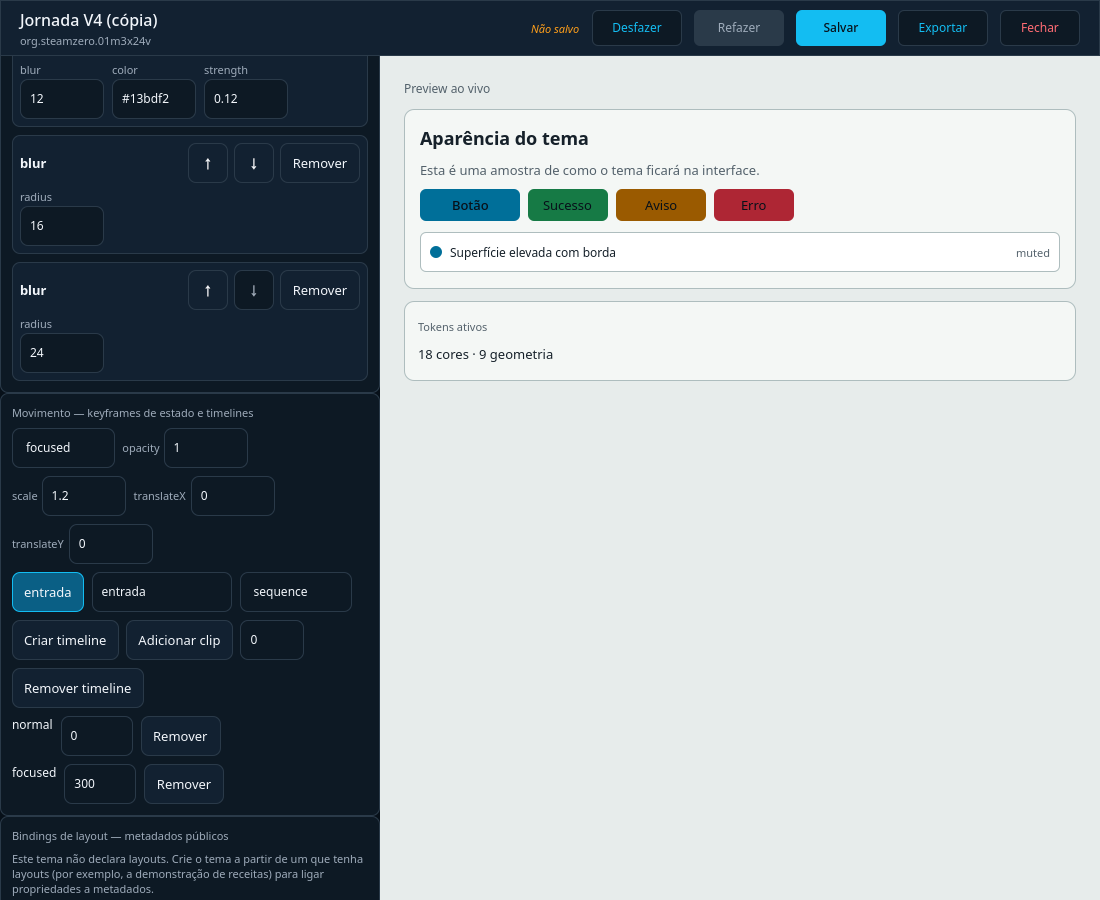
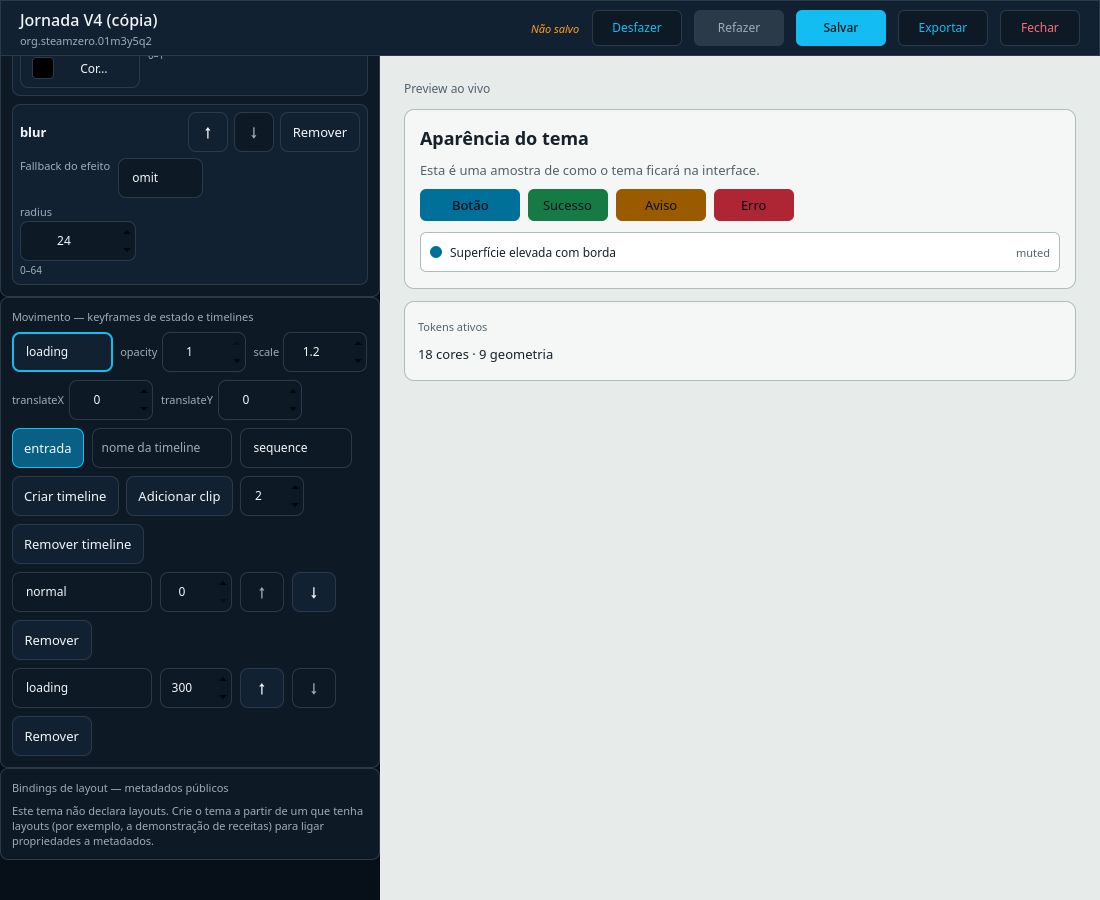
docs(theme): record editor runtime evidence and final gates

diff --git a/docs/09-operations/evidence/2026-10-01-v4-authoring-ui/README.md b/docs/09-operations/evidence/2026-10-01-v4-authoring-ui/README.md
@@ -1,70 +1,126 @@
-# V4 — autoria pela UI: capturas e roteiro para B_VISUAL
+# Edição e execução de tema: prova local e roteiro B_VISUAL
 
-**Nível de prova:** teste QML automatizado com **eventos Qt (mouseClick/keyClick)** sobre os controles reais do
-`ThemeEditorPanel` contra o `DesktopControlServer` real (dashboard real, dados em diretório temporário), em
-plataforma `offscreen`/renderer software. **Não** é prova física: sem input real de teclado/gamepad/portal,
-sem release instalada, sem AT-SPI.
+## O que esta rodada prova
 
-Branch `codex/v1-v3-theme-journey-2026-10-01`; teste: `tests/integration/test_theme_authoring_e2e.py`
-(harness `tests/qml/check_theme_authoring_e2e.qml`). Capturas geradas com `SZ_CAPTURE_DIR=<dir>`.
+O teste `tests/integration/test_theme_authoring_e2e.py` abre o `ThemeEditorPanel`
+real em um harness QML e envia `mouseClick`/`keyClick` aos controles visíveis. A
+ponte usa um `DesktopControlServer`, `DesktopDashboard`, `ThemeEditorManager` e
+`ThemeBridge` reais; os dados e a configuração ficam em `XDG_DATA_HOME` e
+`XDG_CONFIG_HOME` temporários. O renderer testado é o caminho da **AURA UI**:
+`EditorialLibrary` → `MediaEffectLayer`, alimentado pelo `/status` publicado
+depois da aplicação explícita do tema.
 
-## Capturas (dados sintéticos)
-| Arquivo | O que mostra |
+A biblioteca contém somente um registro sintético e a imagem PNG CC0 de
+`tests/fixtures/themes/esde-mini/fundo.png`. Nenhuma biblioteca ou preferência
+pessoal é lida pelo teste. A execução usa Qt 6.11.2, plataforma `offscreen` e
+renderer software. É uma prova de UI QML e pixels no checkout, não de input
+físico, release instalada, sessão gráfica real ou AT-SPI.
+
+O ciclo exercitado pela UI é:
+
+1. Duplicar o tema padrão e editar a pilha de mídia: adicionar blur e vinheta,
+   mudar `radius=24` e `strength=0.9`, reordenar, escolher o fallback `minimal`;
+   abrir o seletor AURA existente, aplicar `#336699` a uma sombra temporária,
+   rejeitar `#zz0000` sem alterar documento/histórico e remover essa sombra.
+2. Editar movimento: criar o estado nativo `loading` com `scale=1.2`; criar e
+   remover uma timeline de rascunho; criar `entrada` como `parallel`, mudar para
+   `sequence`, configurar duas repetições, editar estado/duração dos clips,
+   movê-los para cima/baixo, rejeitar duração `9999` e remover um clip.
+3. Conferir `dirty`, desfazer/refazer, salvar, fechar e reabrir; a declaração
+   semântica reaberta deve ser igual à salva.
+4. Aplicar o tema explicitamente à central e confirmar pelo `/status` que a
+   bridge publicou o ID escolhido. O `MediaEffectLayer` recebe a vinheta salva;
+   a imagem aplicada escurece a borda. O teste compara a soma das médias RGB:
+   a borda precisa cair mais de 15 pontos e o controle central pode variar menos
+   de 12.
+
+Os valores numéricos e as escolhas fechadas vêm de schemas gerados pelas mesmas
+regras de domínio que validam efeitos e movimento. Entradas fora de faixa
+mostram os limites e voltam ao valor aceito sem criar histórico; uma cor inválida
+é recusada pelo domínio e também preserva documento, histórico e seleção.
+
+## Capturas
+
+Todas são capturas do harness QML/software, não fotografias da sessão instalada.
+Os arquivos e hashes estão em `SHA256SUMS`.
+
+| Arquivo | Conteúdo |
 |---|---|
-| `01-studio-efeitos-movimento.png` | Inspetores de efeitos (cartões com parâmetros) e de movimento; 1100x900 |
-| `02-studio-compacto.png` | Viewport 640x560 (layout compacto): inspetores seguem alcançáveis por rolagem |
-| `03-studio-binding.png` | Binding `text ← item.genre` ligado e listado; timeline/clips acima |
-| `04-studio-compact-movimento.png` | Viewport 640x560 após rolar até o inspetor de movimento; `Adicionar clip` cabe inteiro no viewport |
-Hashes: `SHA256SUMS`.
+| `01-studio-efeitos-movimento.png` | Inspetores de efeito e timeline, estado `loading` selecionado e `scale=1.2`; painel 1100×900. |
+| `02-studio-compacto.png` | Controles de efeito acessados com a janela 640×560 e coluna rolável. |
+| `03-studio-binding.png` | Binding `text ← item.genre` ligado pela UI e exibido no inspetor. |
+| `04-studio-compact-movimento.png` | Timeline e clips no viewport 640×560, incluindo seleção de estado e duração. |
+| `05-theme-runtime-baseline.png` | Fixture desenhada pelo `MediaEffectLayer` antes de aplicar a vinheta. |
+| `06-theme-runtime-aplicado.png` | Mesma mídia depois da aplicação da declaração salva. |
+| `07-aura-library-theme-applied.png` | Superfície completa `EditorialLibrary` com fixture sintética e tema ativo. |
+| `08-studio-seletor-cor.png` | Diálogo AURA de seleção de cor, aberto pelo controle de sombra. |
+| `09-studio-vinheta-editada.png` | Receita final de vinheta visível no inspetor: fallback `minimal`, cor e força `0.9`. |
 
-## Correção verificada em 2026-10-02
+## Comandos e resultados focados
 
-O gate visual do CI no run `36952440268` encontrou controles do inspetor fora do
-viewport horizontal no Qt 6.11.2: em 1100x900 `keyframe_scale` começava em x=394
-num `Flickable` de 380 px; em 640x560 o centro de `motionClipAdd` ficava além do
-limite de 280 px. Os `Flow` internos herdavam a largura implícita dos filhos.
-Agora o cartão limita a largura ao `ScrollView.availableWidth`, e os `Flow`
-quebram na largura do inspetor. O harness também verifica que o alvo inteiro está
-na viewport antes de enviar mouse/teclado.
+```bash
+rtk .venv/bin/python tools/run_tests_isolated.py tests/unit/test_theme_effect_authoring.py -q
+rtk env SZ_CAPTURE_DIR="<diretório-de-evidências>" .venv/bin/python tools/run_tests_isolated.py tests/integration/test_theme_authoring_e2e.py -q
+```
 
-Reprodução e correção foram executadas no container pinado pelo CI
-(`ghcr.io/misael-art/steamzero-qml-visual@sha256:8b832ec124ae72aa59a4de3b5c00ccf3f03b41a7e688f45c10daf767290041cd`,
-Qt 6.11.2, Python 3.14.6, software/offscreen): antes, `1 failed`; depois, o teste
-de autoria passou (`1 passed`). No host BigLinux, a mesma jornada passou e gerou
-as capturas 01–04. O guard de estado do runner registrou igualdade antes/depois.
-Isso prova eventos Qt no harness QML e persistência no diretório temporário, não
-input físico nem execução pela release instalada.
+Na última execução focada, passaram: 10 testes de autoria de efeitos/movimento
+(1,20 s), mais 68 testes de `theme_editor`, `scene_motion` e `theme_effects`
+(1,54 s), a jornada QML (14,08 s) e os 2 testes separados de cena importada
+(2,20 s). O guard observou o estado real idêntico antes/depois
+(`files=12818`, `directories=2068`, `bytes=1372818509`). Essa validação pertence
+à árvore de trabalho atual.
 
-Limite de captura: o container visual reproduz a geometria, mas a imagem dele
-mostra glifos ausentes (quadrados) no stack de fontes disponível. Por isso a
-captura 04 é do renderer software local do host, legível e ligada ao mesmo teste;
-os screenshots do container não são usados como aprovação visual.
+No checkpoint integral da árvore congelada desta entrega, `.venv/bin/python
+tools/run_tests_isolated.py tests -q` terminou com **6560 passed, 47 skipped em
+2302,24 s**. O guard do estado real permaneceu idêntico antes/depois
+(`files=12818`, `directories=2068`, `bytes=1372818509`, `max_mtime_ns=1790888510663329431`).
+Também passaram `ruff check src tools tests`, `ruff format --check src tools
+tests` (689 arquivos), `mypy src` (299 arquivos), `make independence
+boundaries`, `make status-check` e `git diff --check`. O checkpoint anterior de
+6557/47 continua como histórico, não como resultado desta árvore.
 
-## Gates locais do checkpoint
+`tests/integration/test_theme_scene_runtime_e2e.py` é uma prova separada:
+`SceneEsdeView` decodifica fixtures válidas/licenciadas ES-DE e RetroFE e verifica
+pixels. Ela não executa o tema criado nesta jornada. `SceneEsdeView`/Theme Engine,
+AURA Launcher e AURA Cinema não são promovidos por capturas da AURA UI.
 
-Na árvore congelada após a correção do viewport, correspondente ao commit
-funcional `57d18663f63f25fb655cce1b6dee40e56b592dc4`, os gates locais terminaram
-em:
+## Roteiro B_VISUAL para a release autorizada
 
-- `.venv/bin/python tools/run_tests_isolated.py tests -q`: **6557 passed, 47 skipped** em 2599,72 s; o guard registrou o mesmo estado real antes/depois (`files=12818`, `directories=2068`, `bytes=1372818509`). Os skips são contratos condicionados a Flatpak/core e fixtures `reference/` não versionadas.
-- `.venv/bin/ruff check src tools tests`: aprovado.
-- `.venv/bin/ruff format --check src tools tests`: 689 arquivos formatados.
-- `.venv/bin/mypy src`: sem erros, 299 arquivos.
-- `make independence boundaries`: independência e fronteiras aprovadas.
-- `make status-check`: aprovado depois de renovar os digests dos itens que incluem a superfície QML compartilhada.
-- `git diff --check`: aprovado.
+**Pré-condições:** usar a release construída do SHA completo que será informado
+após os gates e o CI; verificar que o manifesto do pacote aponta para o mesmo
+`sourceCommit`; registrar release, digest, sessão, resolução e escala. A prova
+requer instalação governada autorizada pelo operador. Não instalar nem publicar
+esta branch por este roteiro. A release observada antes deste lote era
+`2.0.0rc1-5715d7962691`; o rollback preservado era
+`2.0.0rc1-e2af2562ebba`. Nenhuma delas contém as mudanças atuais.
 
-O run remoto `36952440268` pertence ao SHA anterior `ee72df66` e falhou no gate
-visual QML por geometria fora do viewport. A correção local passou no container
-visual pinado; o CI do novo SHA só será criado depois do push. Nenhum pacote foi
-instalado: a release ativa continua `2.0.0rc1-5715d7962691`.
+Use um perfil de teste isolado e uma mídia sintética licenciada na sessão gráfica
+real. Não aponte o teste para a biblioteca Steam pessoal nem ative ações de jogo.
+Se a release não oferecer um modo isolado para essa mídia, registre a etapa de
+runtime como pendente em vez de alterar a biblioteca pessoal.
 
-## Roteiro curto (release candidata, quando existir)
-1. **Sucesso.** Temas → duplicar `org.steamzero.asset-recipes-demo` → no Studio: adicionar efeito `shadow` na pilha `focusedCover`, mudar `blur` para 20, mover para cima; keyframe `focused` `scale=1.2`; criar timeline `entrada` + clip; ligar `previewTitles.text` ao metadado `genre`. Desfazer/Refazer devem seguir cada passo; "Não salvo" acompanha o histórico.
-2. **Salvar/reabrir.** Salvar, Fechar, reabrir o tema na lista: os valores permanecem (inclusive o binding).
-3. **Exportar/importar.** Exportar o `.zip`; importar de novo exige "como cópia" (id novo, "(cópia)"); o original fica intacto.
-4. **Erro e recuperação.** Digitar `9999` em `blur radius`: aparece mensagem acionável, o campo volta ao valor declarado e o histórico não ganha passo. Num tema sem layouts o inspetor de bindings explica como obter um tema com layouts.
-5. **Viewport compacto** (janela estreita): os três inspetores continuam alcançáveis rolando a coluna esquerda.
-6. **Teclado/gamepad/seletor nativo:** não exercitados por este pacote; registrar como "assistido" se o AT-SPI não responder (limitação do instrumento, não do produto).
-Consumidor: tema da central (ThemeBridge) para tokens; cena da Engine (`SceneEsdeView`) para ES-DE/RetroFE. Launcher/AURA Cinema **não** consomem cenas importadas neste pacote.
-Versão: preencher com a release instalada (`2.0.0rc1-5715d7962691` NÃO contém estas mudanças). Rollback preservado: `2.0.0rc1-e2af2562ebba`.
+1. **Sucesso:** abrir a central instalada; duplicar o tema padrão; no Studio,
+   adicionar blur e vinheta, ajustar `24`/`0.9`, escolher `minimal`, abrir o
+   seletor AURA, alterar a cor de uma sombra e removê-la. Criar o estado
+   `loading`, configurar `scale=1.2`, criar `entrada`, editar tipo/repetição e
+   pelo menos dois clips. Navegar pelos controles com mouse e teclado; repetir
+   com gamepad quando o foco estiver disponível.
+2. **Persistência:** conferir `Não salvo`, desfazer/refazer, salvar, fechar,
+   reabrir e comparar os valores. Capturar Studio, seletor de cor, catálogo e
+   versão da release.
+3. **Execução central:** aplicar explicitamente a cópia à central; observar a
+   mídia sintética na `EditorialLibrary` e registrar se a vinheta altera a borda
+   da imagem. Restaurar a preferência anterior ou encerrar o perfil temporário.
+4. **Erro e recuperação:** inserir um valor numérico acima do limite; confirmar
+   mensagem com faixa, valor anterior, seleção e histórico preservados. Digitar
+   hexadecimal inválido; confirmar mensagem do domínio e restauração do campo.
+   Corrigir, salvar/reabrir e capturar o erro e a recuperação.
+5. Registrar input físico e foco. O seletor desta tela é o diálogo AURA existente;
+   não declarar um portal nativo testado. Se AT-SPI falhar, registrar a limitação
+   do instrumento, sem classificar o produto como reprovado por isso.
+
+**Consumidor desta entrega:** AURA UI central (`EditorialLibrary` /
+`MediaEffectLayer`). **Consumidor Engine separado:** `SceneEsdeView`; a ligação
+entre um pacote editado e uma cena importada ainda exige uma fatia própria.
+Launcher/AURA Cinema não consomem cenas importadas neste recorte. O host atual
+permanece na release anterior até existir autorização e instalação governada.

diff --git a/docs/STATUS.md b/docs/STATUS.md
@@ -85,7 +85,7 @@ Esta e a visao atual do projeto. A fonte de verdade sao os arquivos em `docs/sta
 | SZ-PS3-OFFICIAL-FIRMWARE-DOWNLOAD | Download assistido do firmware oficial do PS3 | implemented | complete | feature-branch | unit | unknown | not-packaged | Publicar a branch, instalar uma release governada e executar a prova física do assistente com download oficial, erro controlado, cancelamento/rollback e lançamento posterior do RPCS3. |
 | SZ-RESOURCE-QML-PROBE | Atribuição de recursos e probe QML confiável | verified-dev | complete | integrated | dev | degraded | installed | HARD-EXTERNAL-SUBITEM: repetir a medição em runner/sessão com permissão procfs suficiente e capturar probe QML real com return code zero; não atribuir o agregado atual nem executar mutações administrativas. |
 | SZ-RETROACHIEVEMENTS | RetroAchievements e modo offline | planned | planned | isolated | none | unknown | not-packaged | Implementar adapter RetroAchievements apenas apos hardening de keyring e outbox, respeitando achievement-event-v1. |
-| SZ-ROADMAP-CONTINUATION | Roadmap de continuidade após auditoria integral | verified-dev | complete | feature-branch | dev | ready | not-packaged | Gates integrais locais aprovados no checkpoint do PR #249. Separar commits funcional/documental, fazer push autorizado e atualizar o PR; depois consultar CI no SHA final. Permanecem B_VISUAL, prova na release, Launcher/Cinema e autoria de assetRecipes/tier/resolução. |
+| SZ-ROADMAP-CONTINUATION | Roadmap de continuidade após auditoria integral | verified-dev | complete | feature-branch | dev | ready | not-packaged | Separar commits funcionais/documentais, fazer push autorizado da branch existente e atualizar o PR #249; consultar CI no SHA final. Permanecem B_VISUAL em sessão/release autorizada, cena editada consumida pela Engine, autoria assetRecipes/tier/resolução e consumidores Launcher/Cinema. |
 | SZ-SHARPEMU-COMPONENT-SMOKE-CONTRACT | Contrato de verificação do componente SharpEmu | implemented | complete | feature-branch | unit | ready | not-packaged | Executar gates, publicar a correção e reaplicar o componente SharpEmu na release governada; depois validar o dump PS5 e capturar a evidência física. |
 | SZ-SYSTEM-DIAGNOSTICS-GUIDANCE | Diagnóstico do sistema orientado à recuperação | verified-dev | complete | integrated | dev | degraded | not-packaged | HARD-EXTERNAL-SUBITEM: repetir a jornada na release instalada com um estado de atenção e confirmar foco/ação pelo operador; não executar recovery no host sem autorização. |
 | SZ-TEST-STATE-ISOLATION | Isolamento de estado e diretório temporário da suíte | verified-dev | complete | integrated | dev | ready | not-packaged | Manter o runner canônico em todos os entrypoints e não limpar o state home histórico sem autorização do operador. |
@@ -94,7 +94,7 @@ Esta e a visao atual do projeto. A fonte de verdade sao os arquivos em `docs/sta
 | SZ-THEME-IMPORT-ESDE-LAYOUT | Temas ES-DE: compilacao de layout, aquisicao e instalacao transacional | verified-hw | partial | integrated | hw | degraded | not-packaged | Preparar ES-DE real e repetir inspect→apply→activate→render→rollback: instalação de tema ainda não altera a aparência da central, activated=false é deliberado e quatro temas importados no host são inválidos por falta de compatibility. Cobertura de compilação não é renderização promovida. |
 | SZ-THEME-IMPORT-RETROFE | Importação segura de cenas RetroFE | verified-hw | complete | integrated | hw | ready | installed | Manter a entrada RetroFE instalada e documentar explicitamente que inspeção/importação não promove ativação automática da cena. |
 | SZ-THEME-IMPORT-SURFACE | Importação de temas acessível pela área Temas | partial | partial | feature-branch | unit | degraded | not-packaged | Validar na release 2.0.0rc1-504d10b14485 com fontes ES-DE e pacote SteamZero reais; manter ausência explícita enquanto ES-DE/SRM não estiverem instalados e RetroFE não tiver pacote lançável. |
-| SZ-THEME-STUDIO | Theme Studio — autoria visual de temas | verified-hw | partial | integrated | hw | degraded | installed | Concluir os gates locais e publicar o checkpoint do PR #249. Depois, executar B_VISUAL na release candidata com teclado/gamepad/portal e observar o tema editado no consumidor Engine. Theme Studio segue parcial: edição de assetRecipes no documento, perfis por tier/resolução, Launcher/Cinema e medição na release permanecem pendentes. |
+| SZ-THEME-STUDIO | Theme Studio — autoria visual de temas | verified-hw | partial | integrated | hw | degraded | installed | Gates locais integrais aprovados nesta árvore. Separar commits funcionais e documental, fazer push autorizado do PR #249 e consultar CI no SHA final. Em release governada autorizada, B_VISUAL valida input físico. Permanecem edição assetRecipes, tiers/resolução, round-trip do tema editado na cena Engine, Launcher/Cinema e medição na release. |
 | SZ-UI-DESKTOP-AUDIT | UI Desktop — auditoria visual e jornadas P0/P1 | verified-dev | partial | integrated | dev | degraded | not-packaged | Executar a validacao fisica do conjunto integrado (release candidata 7808374257db) com autorizacao especifica de instalacao; ate la os eixos implementacao/verificacao/operacao/distribuicao continuam os mesmos. F-1 (memoryGb), cinco superficies rolaveis e o seletor nativo seguem abertos. |
 | SZ-UI-PACKAGED-ICONS | Ícones oficiais empacotados de emuladores, serviços e plataformas | partial | partial | integrated | unit | unknown | packaged | Capturar evidencia visual dos icones no Launcher instalado. Sem essa captura, a troca esta provada como empacotamento e gate visual, nao como aparencia na tela instalada. |
 | SZ-V2-HARMONIZED-FUNCTIONAL-RELEASE | Release funcional 2.0 harmonizada | partial | partial | feature-branch | none | unknown | not-packaged | Não promover esta frente por agregação histórica. Usar a ordem vigente: G48 Launcher real, G49 first-run, G50 PCSX2 portal; depois G51 ROM lifecycle, G52 mídia, G53 Theme Studio e G54 ES-DE/RetroFE. A matriz de fade, gameplay, retorno de foco, multi-disc, PS4/PS5 e desempenho só fecha após esses gates. |

diff --git a/docs/ACTIVE-WORK.md b/docs/ACTIVE-WORK.md
@@ -12,4 +12,4 @@ Somente workstreams `active` aparecem aqui. O coordenador deve criar ou atualiza
 | WS-2026-09-HIGH-END-RUNTIME-READINESS | SZ-EMULATION-HIGH-END-RUNTIME-READINESS | `codex/emulation-system-validation-2026-09-19` | `50b3f503e840b227ae900dc32a1a6eae4746ad0f` | codex-emulation-system-validation | docs/status/items/high-end-runtime-readiness-2026-09-20.json<br>docs/status/workstreams/high-end-runtime-readiness-2026-09-20.json<br>docs/09-operations/evidence/2026-09-20-high-end-runtime-readiness<br>src/steamzero/adapters/console_runtime_readiness.py<br>tests/unit/test_console_runtime_readiness.py | Executar gates focados e integrais; registrar o handoff do contrato M3U X68000 e manter PS4/PS5/Xbox prontos para a próxima prova física autorizada. |
 | WS-2026-09-LIBRARY-GOVERNED-MANAGEMENT | SZ-LIBRARY-CANONICAL | `codex/library-host-release-caf9d922-2026-09-22` | `621a3389db32` | codex-continuation | src/steamzero/domain/library_management.py<br>src/steamzero/adapters/emulation.py<br>src/steamzero/adapters/discovery/vita_packaging.py<br>src/steamzero/ui/qml/Main.qml<br>src/steamzero/adapters/desktop_contracts.py<br>tests/unit/test_library_management.py<br>tests/unit/test_library_cache_directory_native.py<br>tests/unit/test_vita_packaging.py<br>tests/integration/test_qml_harness_regressions.py<br>tests/integration/test_qml_handheld_offscreen.py<br>tests/integration/test_qml_visual_capture.py<br>docs/status/items/library-canonical.json<br>docs/status/workstreams/library-governed-management-2026-09-22.json | G56 fechada no host (workspace Vita 6/6) e G57 implementada com preview de espaço comprovado na release governada; testar no host a recusa real por espaço insuficiente. Próximo P1 G58: relacionar derivados gerenciados aos jogos-base na Gestão de arquivos para todas as plataformas, com consentimento/quarentena/rollback e preservação das origens. G59: tornar scan um job assíncrono com progresso/cancelamento. Continuar certificação real de audit/rename/quarentena/rollback universal em cópias seguras; não declarar Vita3K launch sem runtime/adapter. RC-00 (2026-09-26): sobreposição de claim em Main.qml e desktop_contracts.py conciliada com evidência — o diff desses dois caminhos entre origin/main (3495c49d) e o tip cad58bb4 está vazio; os 2 commits pendentes (73919843, cad58bb4) não os tocam. O lote RC-01 da continuidade editará esses arquivos compartilhados em commit próprio e serial; conteúdo da frente permanece preservado na branch remota. |
 | WS-2026-09-MULTIDISC-MATERIALIZATION-INGESTION | SZ-MULTIDISC-MATERIALIZATION-INGESTION | `codex/emulation-system-validation-2026-09-19` | `f89206b4` | codex-emulation-system-validation | src/steamzero/adapters/multidisc_materializer.py<br>tests/unit/test_multidisc_materializer.py<br>docs/status/items/multidisc-materialization-ingestion-2026-09-20.json<br>docs/status/workstreams/multidisc-materialization-ingestion-2026-09-20.json<br>docs/09-operations/evidence/2026-09-20-multidisc-materialization-ingestion | Aguardar release governada para executar a prova física Amiga; manter RAR/7z sem backend em diagnóstico e X68000 sem contrato M3U. |
-| WS-2026-10-V1-V3-THEME-JOURNEY | SZ-ROADMAP-CONTINUATION | `codex/v1-v3-theme-journey-2026-10-01` | `b9d01b60` | codex-a-codigo | src/steamzero/ui/qml/ThemedDialog.qml<br>src/steamzero/ui/qml/CtaButton.qml<br>src/steamzero/ui/qml/mediaFit.js<br>src/steamzero/ui/qml/MediaEffectLayer.qml<br>src/steamzero/ui/qml/ThemeEditorPanel.qml<br>src/steamzero/domain/theme_editor.py<br>src/steamzero/domain/media_recipes.py<br>tests/integration/test_theme_authoring_e2e.py<br>tests/integration/test_theme_scene_runtime_e2e.py<br>tests/unit/test_theme_authoring_journey.py<br>tests/qml/check_theme_authoring_e2e.qml<br>tests/integration/test_media_fit_parity.py<br>docs/status/workstreams/v1-v3-theme-journey-2026-10-01.json<br>docs/status/items/theme-studio.json<br>docs/status/items/theme-engine.json<br>docs/09-operations/evidence/2026-10-01-v4-authoring-ui | Gates integrais locais aprovados: 6557 passed/47 skipped, ruff/format/mypy/independência/fronteiras/status-check verdes. Separar commits funcional e documental, fazer push autorizado e atualizar o PR #249; em seguida consultar CI do SHA final. Pendem B_VISUAL na release candidata, input físico, autoria assetRecipes/tier/resolução e consumidores Launcher/Cinema. |
+| WS-2026-10-V1-V3-THEME-JOURNEY | SZ-ROADMAP-CONTINUATION | `codex/v1-v3-theme-journey-2026-10-01` | `b9d01b60` | codex-a-codigo | src/steamzero/ui/qml/ThemedDialog.qml<br>src/steamzero/ui/qml/CtaButton.qml<br>src/steamzero/ui/qml/mediaFit.js<br>src/steamzero/ui/qml/MediaEffectLayer.qml<br>src/steamzero/ui/qml/ThemeEditorPanel.qml<br>src/steamzero/ui/qml/ColorPickerDialog.qml<br>src/steamzero/domain/theme_editor.py<br>src/steamzero/domain/scene_motion.py<br>src/steamzero/domain/theme_effects.py<br>src/steamzero/domain/media_recipes.py<br>tests/integration/test_theme_authoring_e2e.py<br>tests/integration/test_theme_scene_runtime_e2e.py<br>tests/unit/test_theme_authoring_journey.py<br>tests/unit/test_theme_effect_authoring.py<br>tests/qml/check_theme_authoring_e2e.qml<br>tests/integration/test_media_fit_parity.py<br>docs/status/workstreams/v1-v3-theme-journey-2026-10-01.json<br>docs/status/items/theme-studio.json<br>docs/status/items/theme-engine.json<br>docs/09-operations/evidence/2026-10-01-v4-authoring-ui | Suíte integral (6560 passed/47 skipped) e Ruff/format/mypy/independence/boundaries/status-check aprovados. Separar commits funcionais e documental, fazer push autorizado e atualizar o PR #249; depois consultar CI terminal no SHA final. B_VISUAL físico, edição assetRecipes/tier/resolução, cena editada na Engine e Launcher/Cinema permanecem pendentes. |

diff --git a/docs/WORKLOG.md b/docs/WORKLOG.md
@@ -14563,3 +14563,12 @@ Validação desta revisão: 13 testes de status aprovados em 5.13s, guard de est
 - Primeiro `make status-check` apontou seis digests obsoletos porque o QML compartilhado e a evidência nova pertencem a vários escopos. O delta ficou registrado nos itens Studio, Engine, importadores e UI audit; os digests/views foram renovados e o `make status-check` final retornou `STATUS-CHECK: OK`. A suíte não alterou o state home real.
 - PR #249 continua aberto. Push da branch existente autorizado nesta continuidade; este commit documental fecha o checkpoint e será enviado sem force-push. O CI do novo SHA só começa após o push. Nenhum merge, release, build de distribuição ou instalação foi executado. Ativo continua `2.0.0rc1-5715d7962691`, rollback `2.0.0rc1-e2af2562ebba`.
 - Pendências: B_VISUAL com teclado/gamepad/portal e consumidor Engine na release candidata; edição persistida de `assetRecipes` e configuração por tier/resolução; Launcher/AURA Cinema não consomem cenas importadas; medição de cena editada na release. O Studio, Engine e Launcher permanecem parciais e nenhum eixo foi promovido por este checkpoint.
+
+## 2026-10-02 — Tema editado executado na central; checkpoint final do PR #249
+
+- Branch `codex/v1-v3-theme-journey-2026-10-01`, continuada do SHA `909df05ab5ea52db19c65a3638e0d2e6f65627ff`. Commits funcionais: `b44fdfd` (schemas e controles tipados de efeitos/movimento, jornada QML) e `6ec114c` (alvo estável para localizar a mídia da EditorialLibrary no harness).
+- Pela UI QML com eventos Qt, a jornada cria/edita efeitos e movimento, reordena/remove efeitos e clips, rejeita valores inválidos sem alterar histórico/seleção, desfaz/refaz, salva, fecha/reabre e aplica explicitamente. O tema reaberto altera pixels em `EditorialLibrary` → `MediaEffectLayer` com fixture sintética isolada; Qt 6.11.2 offscreen/software. Não é sessão gráfica, input físico, Theme Engine/SceneEsdeView, Launcher, Cinema ou release instalada.
+- Focados: 10 testes de schemas/autoria, 68 do domínio relacionado, 1 jornada QML e 2 cenas ES-DE/RetroFE separadas. Integral congelada: `.venv/bin/python tools/run_tests_isolated.py tests -q` — **6560 passed, 47 skipped em 2302.24s**. Guard real idêntico antes/depois: `files=12818`, `directories=2068`, `bytes=1372818509`, `max_mtime_ns=1790888510663329431`. Ruff check, format (689 arquivos), mypy (299), independence, boundaries, status-check e diff-check aprovados.
+- Nove capturas e SHA-256 estão em `docs/09-operations/evidence/2026-10-01-v4-authoring-ui/`; roteiro B_VISUAL registra sucesso, erro/recuperação e a condição de pacote/release autorizada. Digests e views de status foram renovados; alterações compartilhadas de QML foram reconciliadas nos itens de importação, auditoria UI e firmware sem promover seus critérios.
+- Verificação somente leitura: `/opt/steamzero/current` aponta para `2.0.0rc1-5715d7962691`; `2.0.0rc1-e2af2562ebba` permanece no diretório de releases. A branch não foi instalada, empacotada nem integrada em `main`. PR #249 continua aberto; este registro é do fechamento local anterior ao push deste checkpoint, autorizado nesta conversa. Sem merge/release/instalação.
+- Ficam pendentes input físico e B_VISUAL na sessão/release autorizada; executar o tema editado pelo renderer Theme Engine/`SceneEsdeView`; autoria persistida de `assetRecipes` e perfis tier/resolução; consumidores de cenas no Launcher/Cinema; medição da cena editada na release. Studio, Engine e Launcher permanecem parciais.

diff --git a/docs/status/COVERAGE.md b/docs/status/COVERAGE.md
@@ -83,21 +83,21 @@ onde uma alegacao nao tem evidencia que a sustente.
 | SZ-PLATFORM-REQUIREMENT-SCOPE | 7 | 3 | 2 | unit |  |
 | SZ-PLATFORM-VITA-CATALOG | 5 | 8 | 5 | hw |  |
 | SZ-PROJECT-DESIGN-AUDIT | 12 | 25 | 6 | dev |  |
-| SZ-PS3-OFFICIAL-FIRMWARE-DOWNLOAD | 8 | 5 | 1 | unit |  |
+| SZ-PS3-OFFICIAL-FIRMWARE-DOWNLOAD | 8 | 6 | 1 | unit |  |
 | SZ-RESOURCE-QML-PROBE | 7 | 2 | 1 | dev |  |
 | SZ-RETROACHIEVEMENTS | 41 | 2 | 1 | none |  |
-| SZ-ROADMAP-CONTINUATION | 19 | 9 | 3 | dev |  |
+| SZ-ROADMAP-CONTINUATION | 24 | 11 | 5 | dev |  |
 | SZ-SHARPEMU-COMPONENT-SMOKE-CONTRACT | 3 | 1 | 1 | unit |  |
 | SZ-SYSTEM-DIAGNOSTICS-GUIDANCE | 5 | 8 | 3 | dev |  |
 | SZ-TEST-STATE-ISOLATION | 4 | 4 | 4 | dev |  |
-| SZ-THEME-ENGINE | 125 | 56 | 46 | hw |  |
+| SZ-THEME-ENGINE | 126 | 58 | 48 | hw |  |
 | SZ-THEME-ESDE-SCENE-RENDER | 26 | 11 | 8 | hw |  |
 | SZ-THEME-IMPORT-ESDE-LAYOUT | 32 | 13 | 10 | hw |  |
-| SZ-THEME-IMPORT-RETROFE | 10 | 16 | 11 | hw |  |
-| SZ-THEME-IMPORT-SURFACE | 4 | 13 | 8 | unit |  |
-| SZ-THEME-STUDIO | 96 | 28 | 20 | hw |  |
-| SZ-UI-DESKTOP-AUDIT | 833 | 186 | 110 | dev |  |
+| SZ-THEME-IMPORT-RETROFE | 10 | 17 | 11 | hw |  |
+| SZ-THEME-IMPORT-SURFACE | 4 | 14 | 8 | unit |  |
+| SZ-THEME-STUDIO | 102 | 34 | 25 | hw |  |
+| SZ-UI-DESKTOP-AUDIT | 833 | 187 | 110 | dev |  |
 | SZ-UI-PACKAGED-ICONS | 57 | 4 | 2 | unit |  |
 | SZ-V2-HARMONIZED-FUNCTIONAL-RELEASE | 2 | 1 | 0 | none |  |
 
-Arquivos em `src/`: **623**. Sob agregador apenas, sem item de capacidade: **270** (43%). Esse numero e o tamanho real do runtime que tem dono declarado e nenhuma capacidade provada; ele deve cair conforme recortes viram itens proprios, e subir e sinal de codigo novo entrando sem capacidade declarada.
+Arquivos em `src/`: **623**. Sob agregador apenas, sem item de capacidade: **269** (43%). Esse numero e o tamanho real do runtime que tem dono declarado e nenhuma capacidade provada; ele deve cair conforme recortes viram itens proprios, e subir e sinal de codigo novo entrando sem capacidade declarada.
